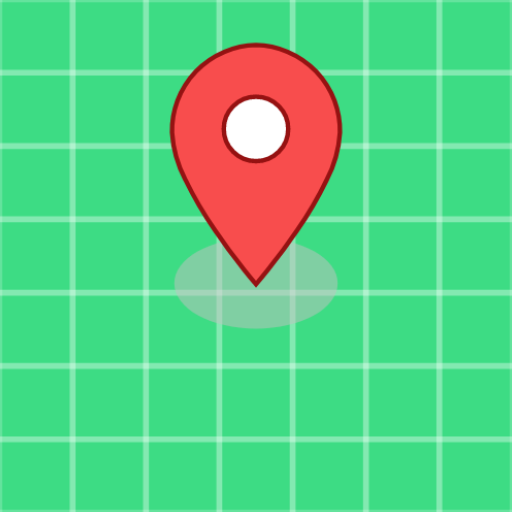
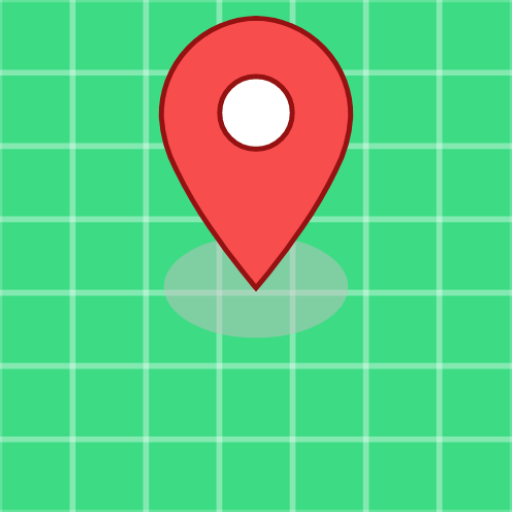
Red MArker ok

Changed region(s): [[0.3125, 0.0312, 0.6875, 0.4375], [0.3125, 0.4375, 0.6875, 0.6875], [0.4062, 0.125, 0.5938, 0.3438]]

diff --git a/app/src/main/java/com/svalero/happdeporteandroid/view/MatchRegisterView.java b/app/src/main/java/com/svalero/happdeporteandroid/view/MatchRegisterView.java
@@ -60,7 +60,7 @@ public class MatchRegisterView extends AppCompatActivity implements MatchRegiste
         gesturesPlugin.addOnMapClickListener(point -> {
             removeAllMarkers();
             this.point = point;
-//            addMarker(point);
+            addMarker(point);
             return true;
         });
 
@@ -82,7 +82,7 @@ public class MatchRegisterView extends AppCompatActivity implements MatchRegiste
     private void addMarker(Point point) {
         PointAnnotationOptions pointAnnotationOptions = new PointAnnotationOptions()
                 .withPoint(point)
-                .withIconImage(BitmapFactory.decodeResource(getResources(), R.mipmap.red_marker));
+                .withIconImage(BitmapFactory.decodeResource(getResources(), R.mipmap.ic_banner_foreground));
         pointAnnotationManager.create(pointAnnotationOptions);
     }
 
@@ -148,7 +148,7 @@ public class MatchRegisterView extends AppCompatActivity implements MatchRegiste
 
     @Override
     public void showMessage(String message) {
-        Snackbar.make(((EditText) findViewById(R.id.et_teamB)), message,
+        Snackbar.make(((EditText) findViewById(R.id.et_analysis)), message,
                 BaseTransientBottomBar.LENGTH_LONG).show();
     }
 

diff --git a/app/src/main/java/com/svalero/happdeporteandroid/view/MapsActivity.java b/app/src/main/java/com/svalero/happdeporteandroid/view/MapsActivity.java
@@ -69,7 +69,7 @@ public class MapsActivity extends AppCompatActivity  implements MatchListContrac
         PointAnnotationOptions pointAnnotationOptions = new PointAnnotationOptions()
                 .withPoint(point)
                 .withTextField(title) //asi aparece el nombre en el mapa
-                .withIconImage(BitmapFactory.decodeResource(getResources(), R.mipmap.red_marker));
+                .withIconImage(BitmapFactory.decodeResource(getResources(), R.drawable.red_marker_background));
         pointAnnotationManager.create(pointAnnotationOptions);
     }
 

diff --git a/app/src/main/java/com/svalero/happdeporteandroid/presenter/MatchRegisterPresenter.java b/app/src/main/java/com/svalero/happdeporteandroid/presenter/MatchRegisterPresenter.java
@@ -32,7 +32,8 @@ public class MatchRegisterPresenter implements MatchRegisterContract.Presenter, 
 
     @Override
     public void onRegisterSuccess(Match match) {
-        view.showMessage("El partido " + match.getId() + " se ha registrado correctamente");
+//        view.showMessage("El partido " + match.getId() + " se ha registrado correctamente");
+        view.showMessage("El partido  se ha registrado correctamente");
     }
 
     @Override

diff --git a/app/src/main/java/com/svalero/happdeporteandroid/domain/Match.java b/app/src/main/java/com/svalero/happdeporteandroid/domain/Match.java
@@ -47,7 +47,7 @@ public class Match implements Serializable {
     }
 
     /**
-     *Constructor para modificar Partidos
+     *Constructor para registrar  Partidos
      */
     public Match(String teamB, int markerA, int markerB, String analysis, double latitude, double longitude, String dateMatch, String hourMatch, Team teamInMatch) {
         this.teamB = teamB;
